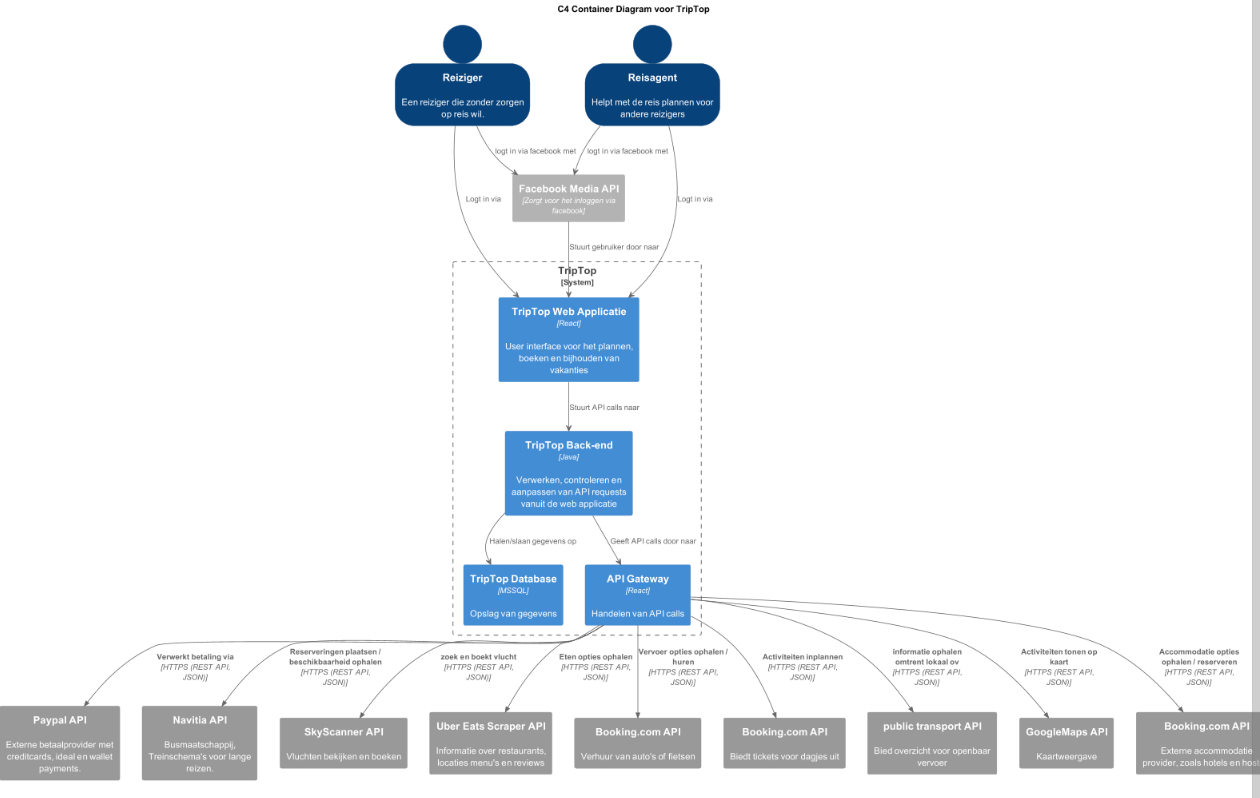
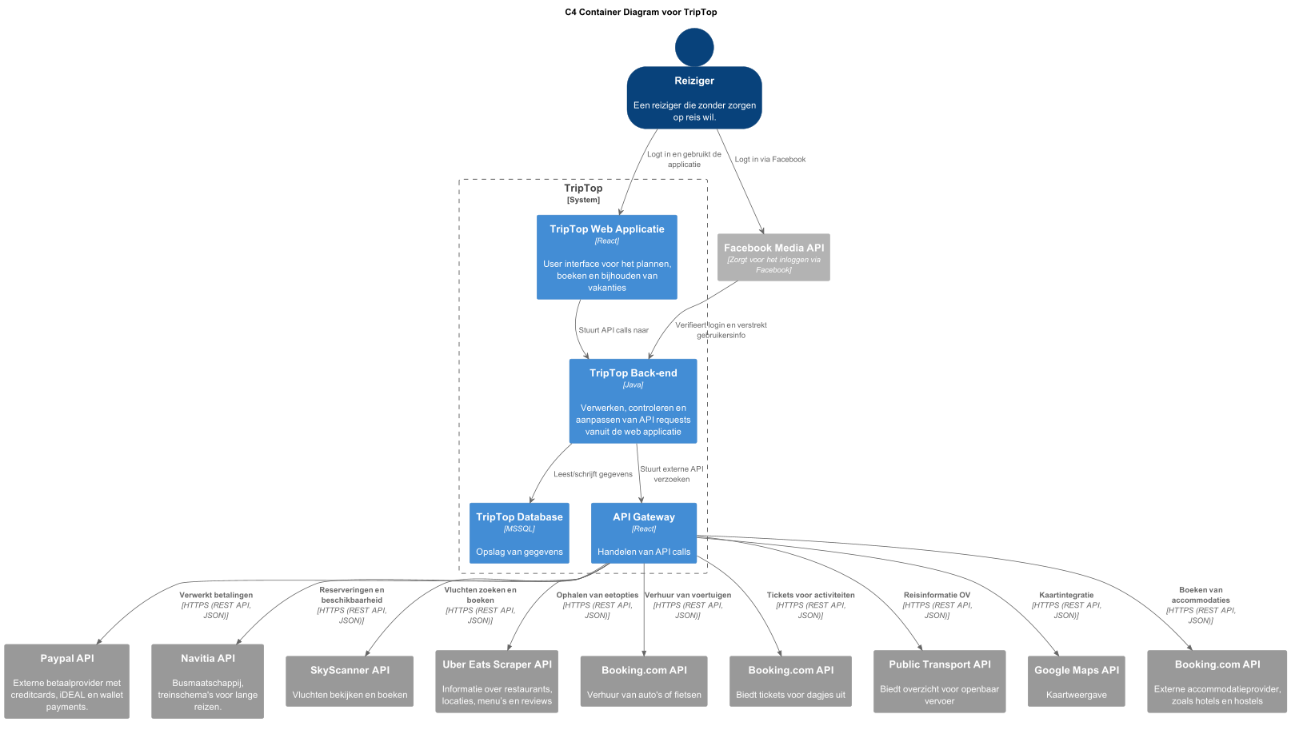
.

Changed region(s): [[0.0, 0.0, 1.0, 1.0], [0.5571, 0.3001, 0.65, 0.3902]]

diff --git a/software-guidebook/README.md b/software-guidebook/README.md
@@ -14,7 +14,7 @@ Dit software guidebook geeft een overzicht van de Triptop-applicatie. Het bevat 
 ### 2.1 Gebruikers
 
 De gebruikers van het systeem zijn mensen die een reis willen plannen en boeken via Triptop. In het diagram worden zij aangeduid als **"reiziger"**.  
-Daarnaast zijn er medewerkers van (digitale) reisbureaus, aangeduid als **"reisagent"**, die reizigers ondersteunen bij het boeken van hun droomreis.  
+Daarnaast zijn er medewerkers van (digitale) reisbureaus, aangeduid als **"reisagent"**, die reizigers ondersteunen bij het boeken van hun droomreis. Gezien deze voor nu geen andere functionaliteit heeft word deze in de diagrammen niet weergegeven.  
 Uiteraard zijn er ook bezoekers die gewoon even komen kijken wat de website te bieden heeft. Deze laten we in deze context buiten beschouwing, omdat bijna alle functionaliteiten alleen van toepassing zijn als je daadwerkelijk inlogt en een vakantie boekt.  
 Verder geldt dit diagram enkel voor gebruikers; beheerders of andere betrokkenen hebben een andere context.
 
@@ -177,7 +177,7 @@ Proces:
 
 #### **extrene api connection container diagram**
 
-![Compnent diagram voor externe api's aansluiten](../opdracht-diagrammen/Componentdiagram-portsadapters.png)
+![Compnent diagram voor externe api's aansluiten](../opdracht-diagrammen/Componentdiagram-portsadapters.puml)
 
 Het bovenstaande diagram geeft weer hoe de componenten samenwerken voor het ophalen van informatie van externe API's. Hierbij wordt gebruikgemaakt van een interface met de naamconventie **port**. Voor elke externe API wordt een aparte **port**-interface gemaakt. Deze interface zorgt ervoor dat de adapter (aangegeven als **AdapterAPI**) de ontvangen data uit de API in het juiste formaat terugstuurt naar de service.
 
@@ -294,12 +294,15 @@ Hierdoor kunnen ook gebruikers zonder creditcard internationaal betalen.
 
 ## 5. Betalingsopties vergelijking
 
-| Forces              | iDEAL | PayPal | Bank |
-|---------------------|:-----:|:------:|:----:|
-| **Beschikbaarheid** | -   | ++     | 0    |
-| **Creditcards**     | --  | ++     | ++   |
-| **Betrouwbaarheid** | ++  | +      | ++   |
-| **Extra kosten**    | ?   | +      | +    |
+| Forces                          | iDEAL  | PayPal | Bank  |
+|----------------------------------|:------:|:------:|:-----:|
+| **Internationale beschikbaarheid** | --     | ++     | +     |
+| **Uptime**                       | ++     | ++     | +     |
+| **Creditcards**                  | --     | ++     | ++    |
+| **Betrouwbaarheid**              | ++     | +      | ++    |
+| **Beveiliging**                  | ++     | ++     | +     |
+| **Extra kosten**                 | 0      | +      | +     |
+
 
 ## 6. Consequenties
 
@@ -315,6 +318,7 @@ Ook heeft het enkele nadelen:
 
 - PayPal is opgericht door Elon Musk en heeft in het verleden kritiek gekregen op beleid en kosten.
 - Externe API vereist integratie en communicatie met andere API’s.
+- Het is een betaalde API en zal dus geld kosten.
 - Niet alle bedrijven accepteren PayPal.
 
 ## 7. Alternatieven overwogen
